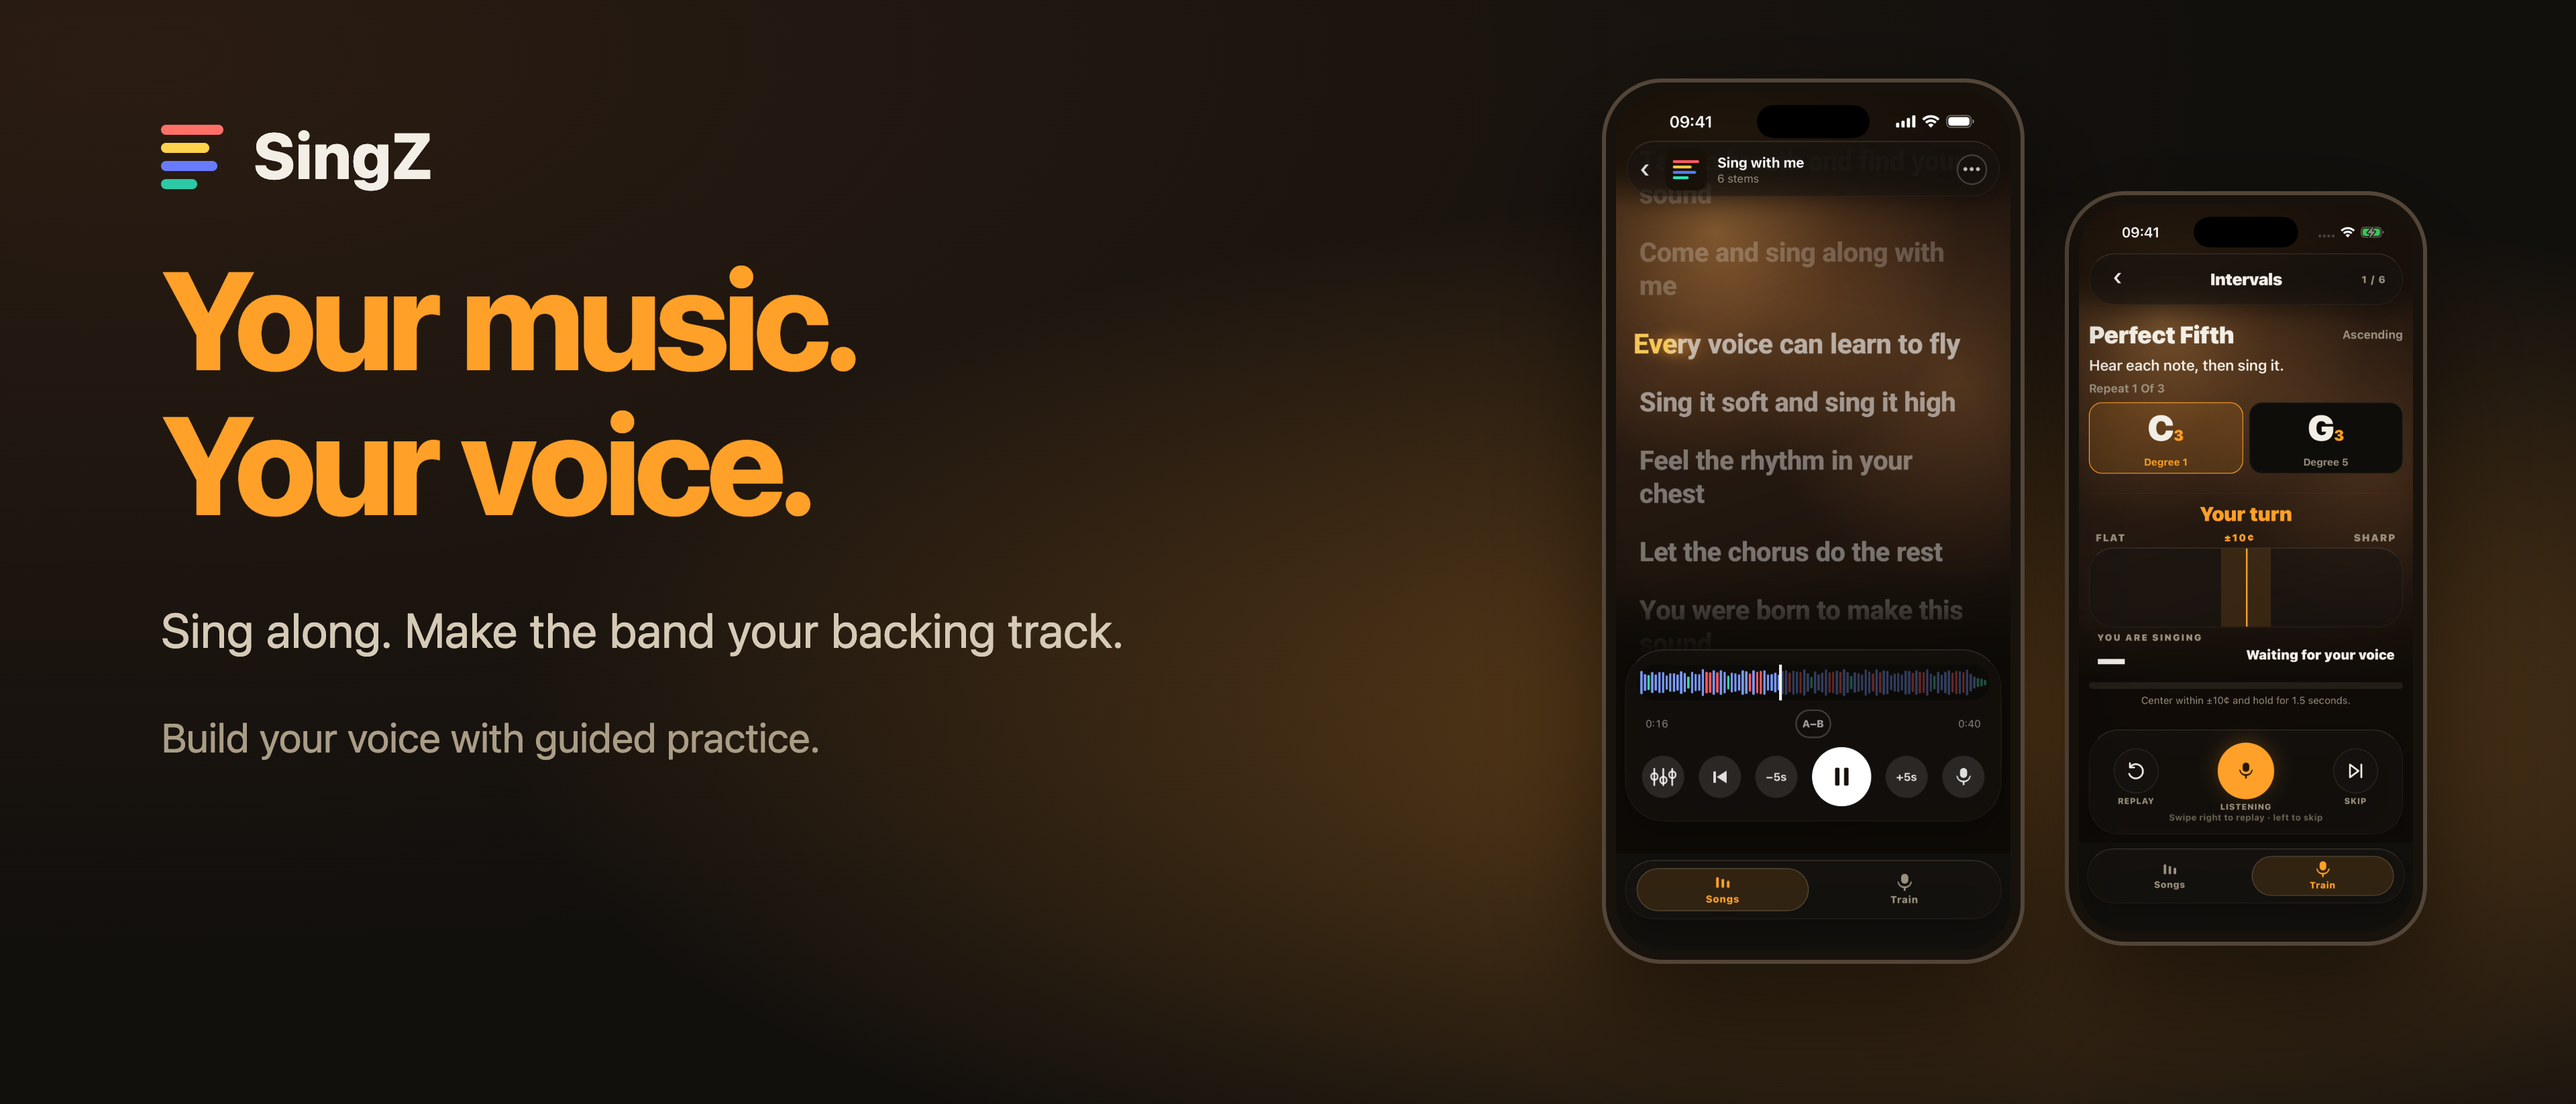
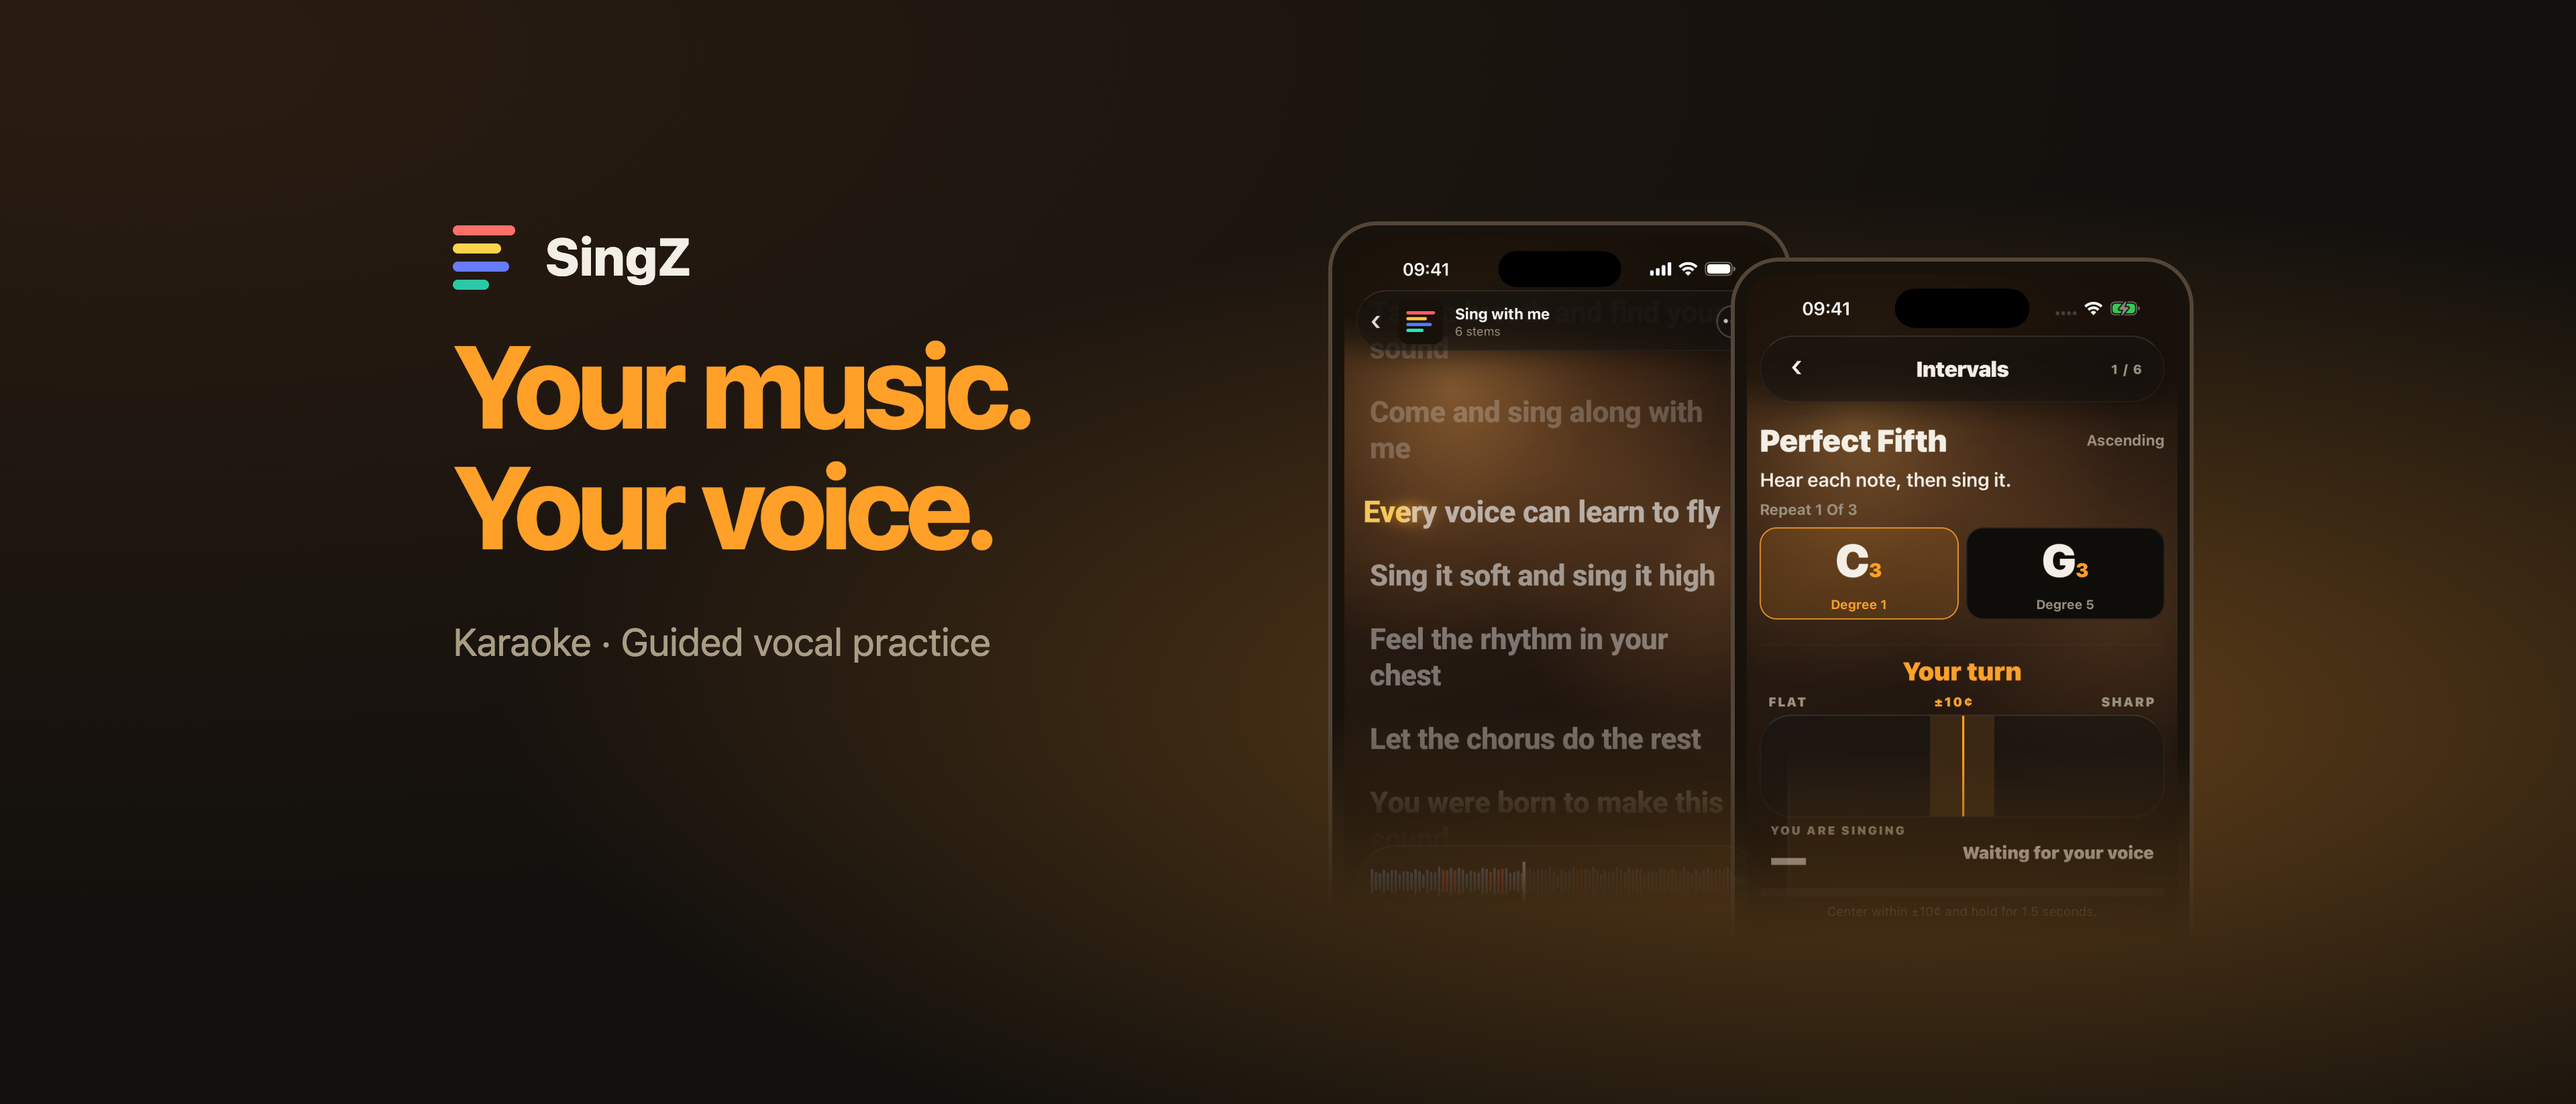
Preserve revised localized App Store promotional artwork

diff --git a/docs/ios-assets/README.md b/docs/ios-assets/README.md
@@ -33,9 +33,26 @@ description and promotional text for en-US, ru and zh-Hans on the pending
 0.26.1 version. Fastlane was updated to 2.240.1. Its client and Apple's
 22 September 2026 public OpenAPI schema do not contain creative Asset Library
 endpoints; artwork upload must use App Store Connect until that API is published.
-All six creative PNGs were uploaded through App Store Connect on 6 October 2026
-and submitted together. Apple confirmed “6 Items Submitted”; all six assets are
-Waiting for Review in submission `8a1af88d-29a8-448b-97b0-536d9e93c392`.
-They are not yet approved or assigned to localized header/search placements:
-the pending 0.26.1 version's creative selector is disabled while Waiting for
-Review. Complete placement assignment when Apple makes that control available.
+All six original creative PNGs were assigned to their localized header/search
+placements and resubmitted with 0.26.1 (30) on 6 October 2026 at 11:44 Moscow.
+The app submission is `37f4c5a1-a4d5-4ce4-b8de-73145f31efa3`; the app and
+six creatives showed Waiting for Review.
+
+The original submission was withdrawn and all six revised creatives were uploaded
+and assigned to en-US, ru and zh-Hans. The replacements use larger, equally wide
+upper-screen phone crops with a fade at the bottom, and keep the headline inside
+the visible center. App Store Connect's product and search previews were checked
+on iPhone, iPhone Duo (outer/inner display) and iPad, including available portrait
+and landscape views. Russian and Chinese header/search artwork was also checked.
+
+The replacements and 0.26.1 (30) were resubmitted on 6 October 2026 at 12:48
+Moscow. Submission `a0669c39-8490-48ce-844d-36e159ccec19` and all six replacement
+creatives showed **Waiting for Review**. The old creatives remain unassigned in
+the Asset Library. The renderer also writes conservative portrait and landscape
+crop checks to `/private/tmp/singz-header-*-crop.png`; those are estimates, not
+Apple's official device renderer.
+
+The App Store Connect header thumbnail was measured at 478×205 pixels, displayed
+at 560×240 CSS pixels, while the uploaded source was 3840×1646. The thumbnail
+explains the visible softness in the administration page; it does not establish
+the quality of the eventual live App Store rendering.
